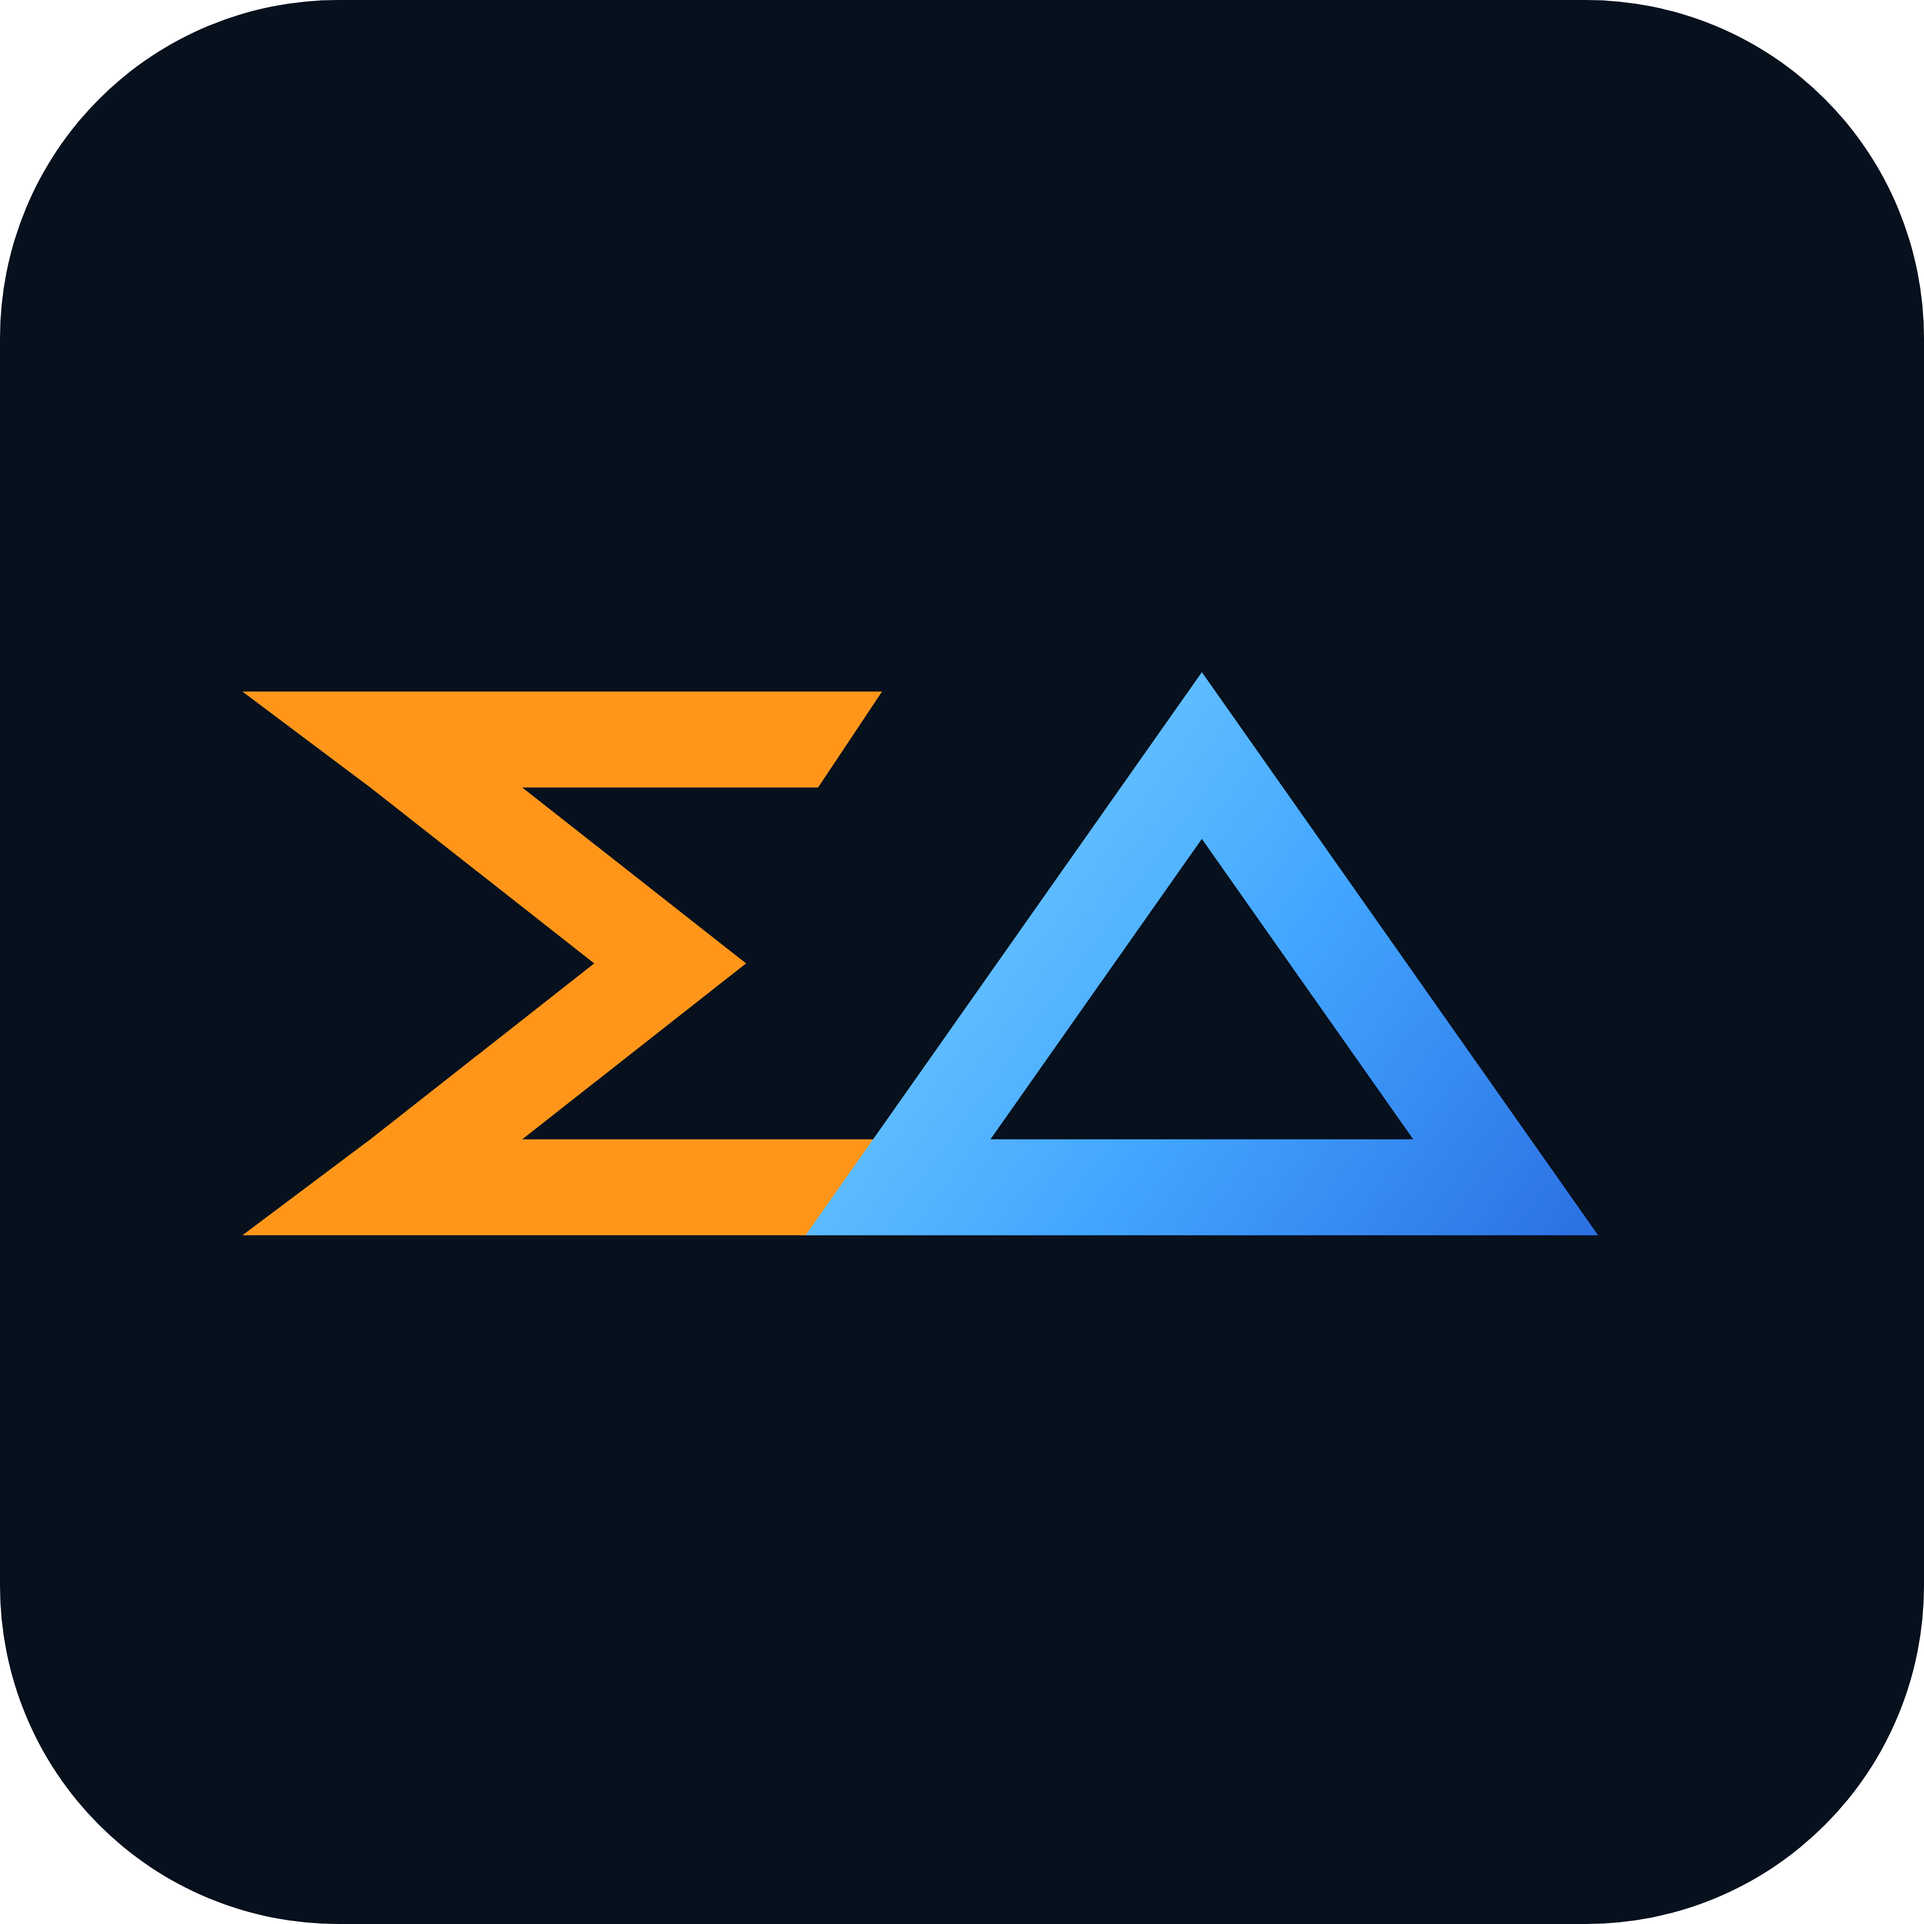
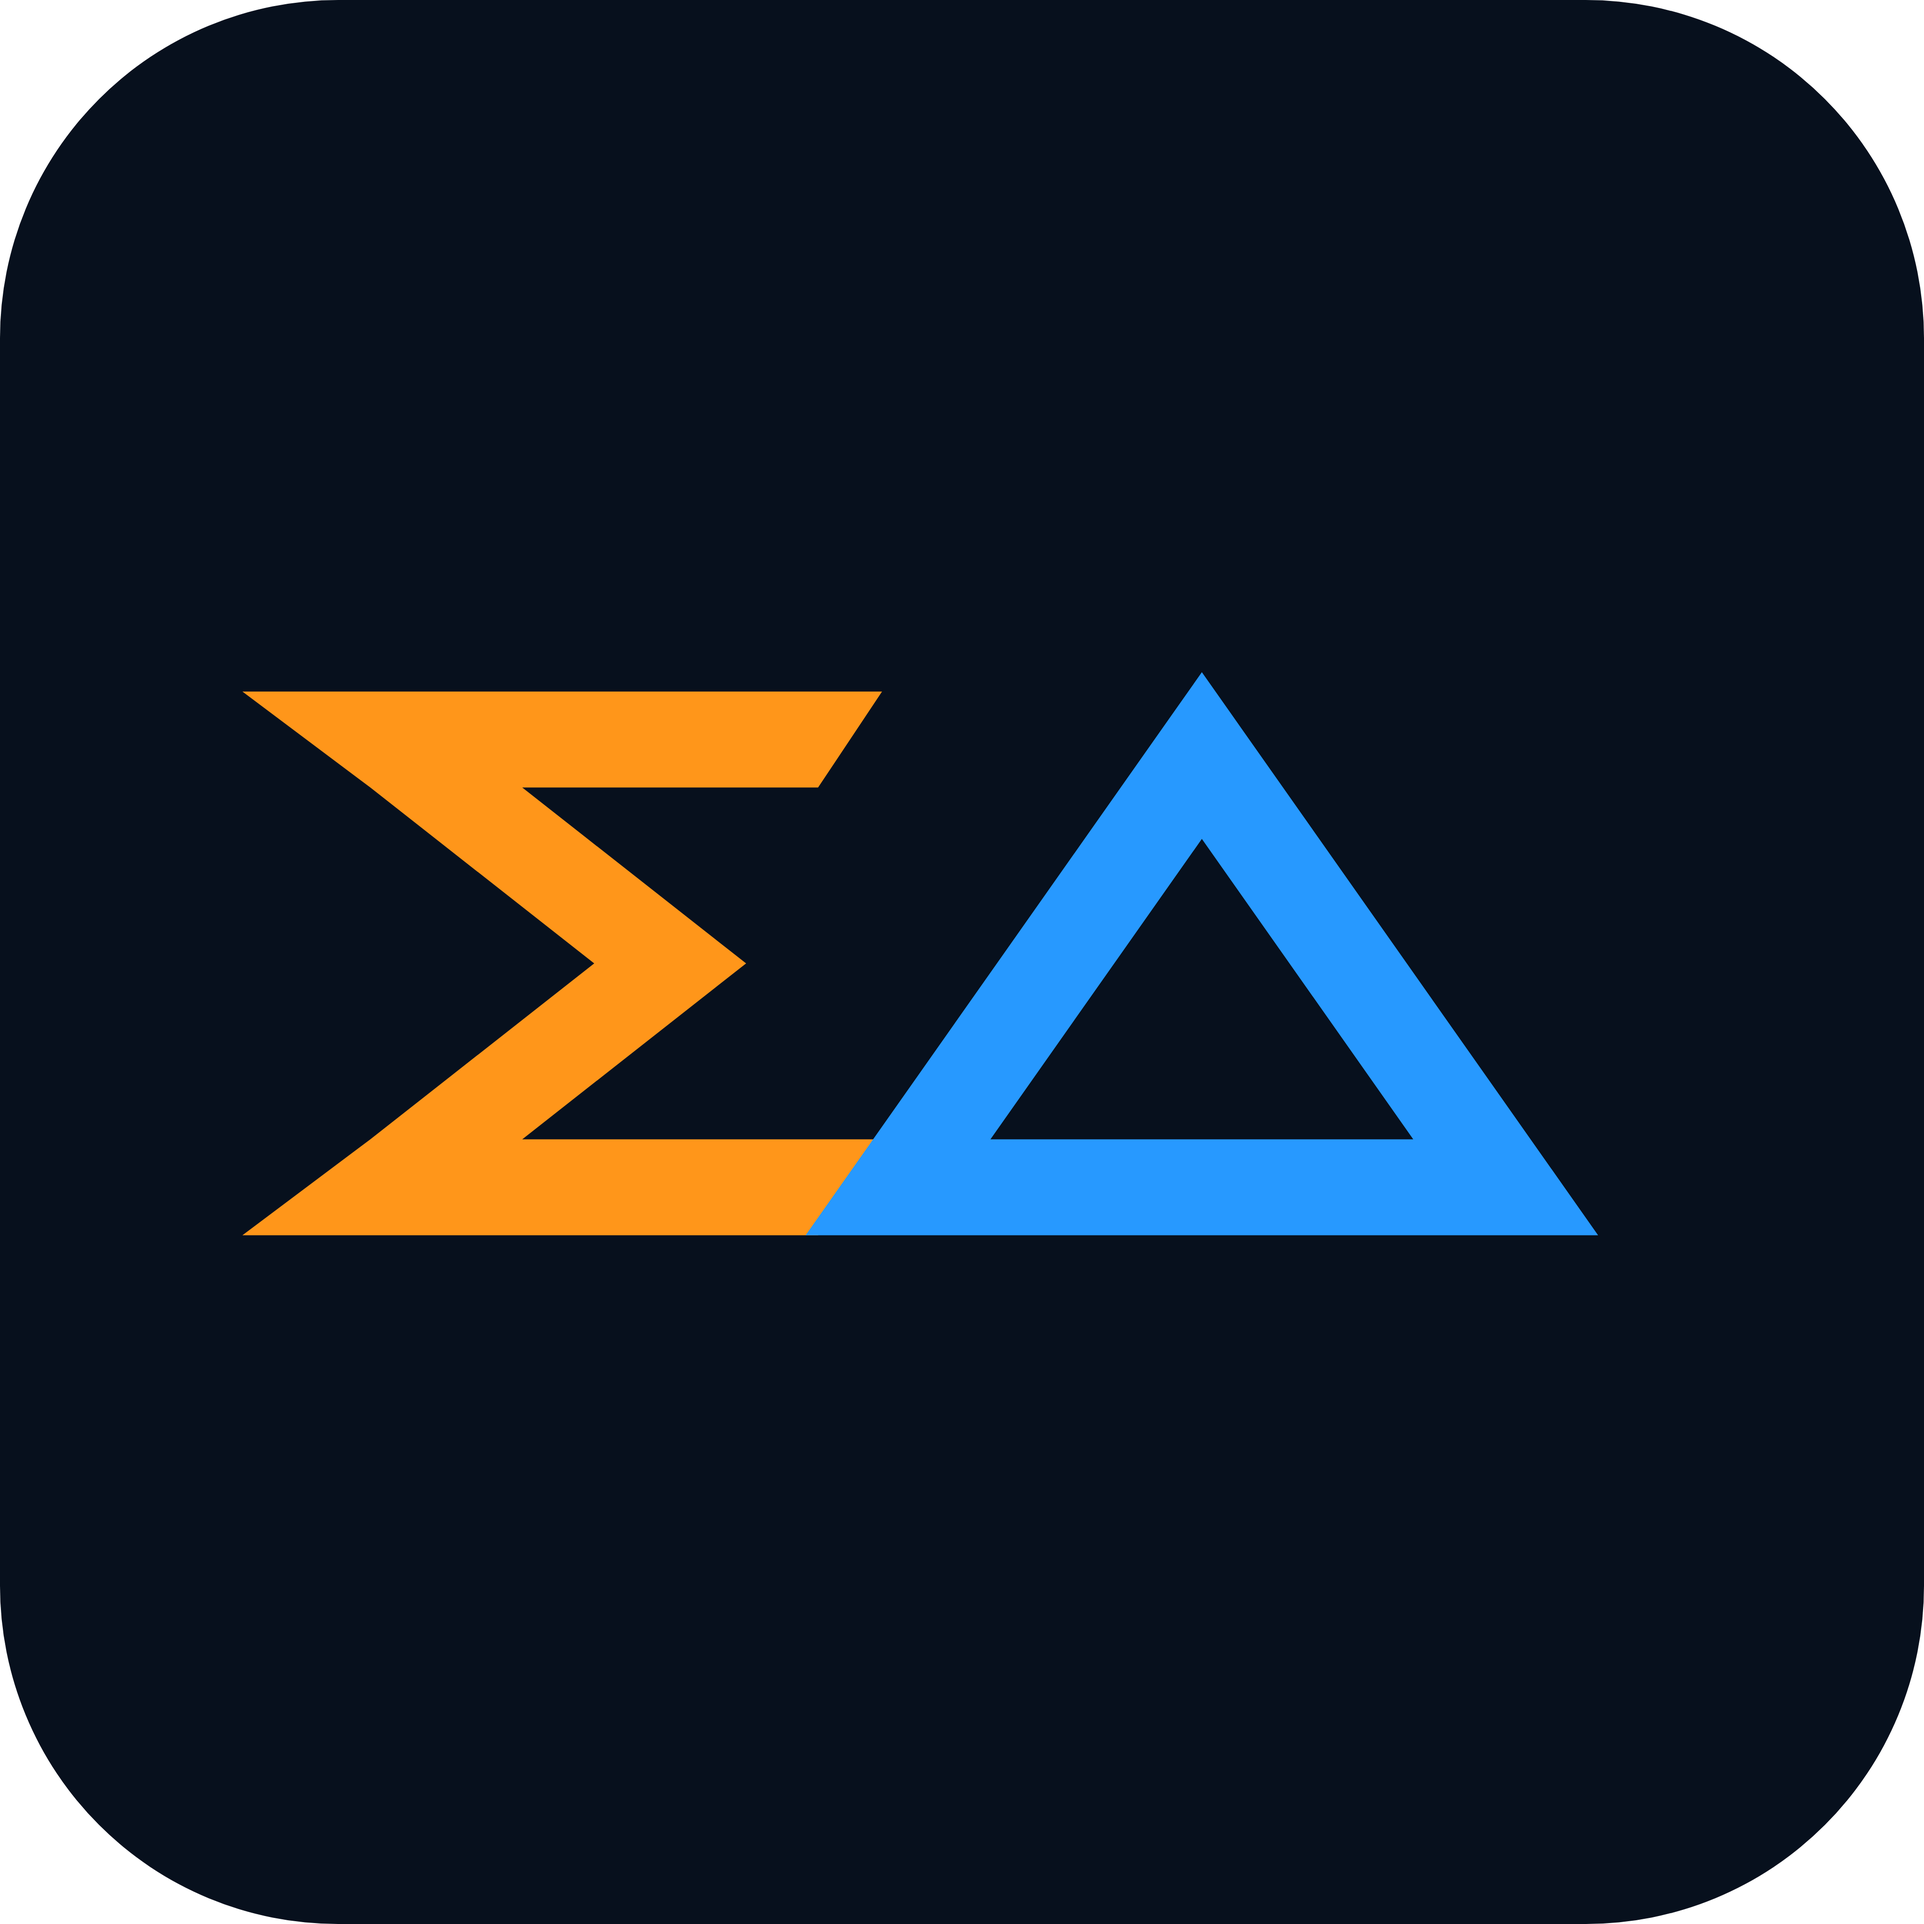
Make delta mark solid blue

Changed region(s): [[0.4062, 0.3438, 0.7188, 0.6562], [0.75, 0.5625, 0.8438, 0.6562]]

diff --git a/frontend/components/app-shell.tsx b/frontend/components/app-shell.tsx
@@ -213,7 +213,6 @@ type SigmaDeltaIconProps = SVGProps<SVGSVGElement> & {
 };
 
 function SigmaDeltaIcon({ gradientPrefix, ...props }: SigmaDeltaIconProps) {
-  const deltaId = `${gradientPrefix}Delta`;
   const sigmaPath = "M2 6H42L38 12H19.5L33.5 23L19.5 34H42L38 40H2L10 34L24 23L10 12Z";
   const deltaPath = "M62 10L81 37H43Z";
   return (
@@ -224,26 +223,11 @@ function SigmaDeltaIcon({ gradientPrefix, ...props }: SigmaDeltaIconProps) {
       stroke="none"
       preserveAspectRatio="xMidYMid meet"
     >
-      <defs>
-        <linearGradient id={deltaId} x1="38" y1="6" x2="86" y2="41" gradientUnits="userSpaceOnUse">
-          <stop offset="0" stopColor="#70d3ff" />
-          <stop offset="0.56" stopColor="#2799ff" />
-          <stop offset="1" stopColor="#0d59de" />
-        </linearGradient>
-      </defs>
       <path d={sigmaPath} fill="#ff961a" />
       <path
         d={deltaPath}
         fill="none"
-        stroke={`url(#${deltaId})`}
-        strokeWidth="6"
-        strokeLinejoin="miter"
-      />
-      <path
-        d={deltaPath}
-        fill="none"
-        stroke="#ecf8ff"
-        strokeOpacity="0.14"
+        stroke="#2799ff"
         strokeWidth="6"
         strokeLinejoin="miter"
       />
